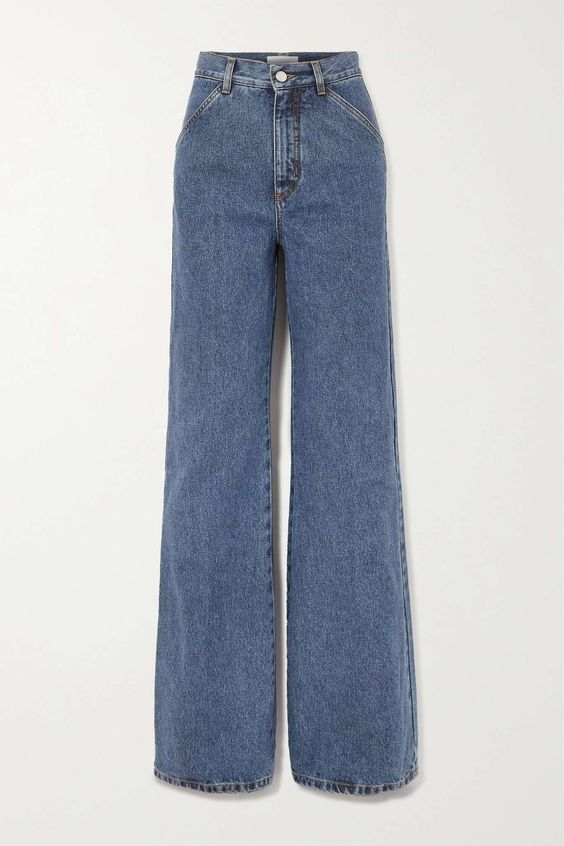
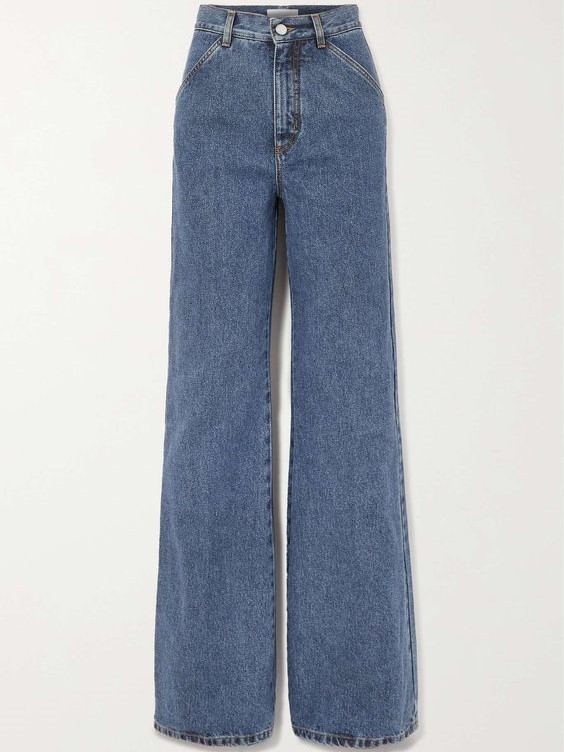
css image sizing

Changed region(s): [[0.2713, 0.5199, 0.7535, 1.0], [0.3014, 0.0, 0.6933, 0.4894], [0.3014, 0.367, 0.3316, 0.3976]]

diff --git a/templates/clothing.html b/templates/clothing.html
@@ -45,10 +45,12 @@
     <div class="w3-row-padding">
       {% for item in results %}
       <div class="w3-third">
-        <div class="w3-card-4 w3-white w3-padding">
+        <div class="w3-card-4 w3-white">
           <img src="/static/images/{{item[5]}}" alt="{{item[1]}}" class="img">
+          <div class="padding">
           <h3>{{ item[1] }}</h3>
           <p>Brand: {{ item[2] }}<br>Type: {{ item[3] }}<br>Colour: {{ item[4] }}</p>
+        </div>
           <form method="POST" action="{{ url_for('deleteclothing', ID=item[0]) }}">
             <input type="submit" title="Delete" class="input delete-button w3-right-align" value="&#10006;" onclick="return confirm('Are you sure you want to delete this Item?')">
           </form>

diff --git a/static/charlottestyles.css b/static/charlottestyles.css
@@ -10,6 +10,10 @@
     text-decoration:none;
 }
 
+.padding {
+  padding: 8px 16px
+}
+
 .input{
     background-color:#ffffff00;
     display:inside;
@@ -17,11 +21,17 @@
     width:100%
 }
 
+.center {
+  display: block;
+  margin-left: auto;
+  margin-right: auto;
+  width: 50%;
+}
 
 .img {
-
-  width:300px;
-  height:400px;
+  width:355px;
+  height:418px;
+  
 }
 
 /* Button used to open the contact form - fixed at the bottom of the page */
